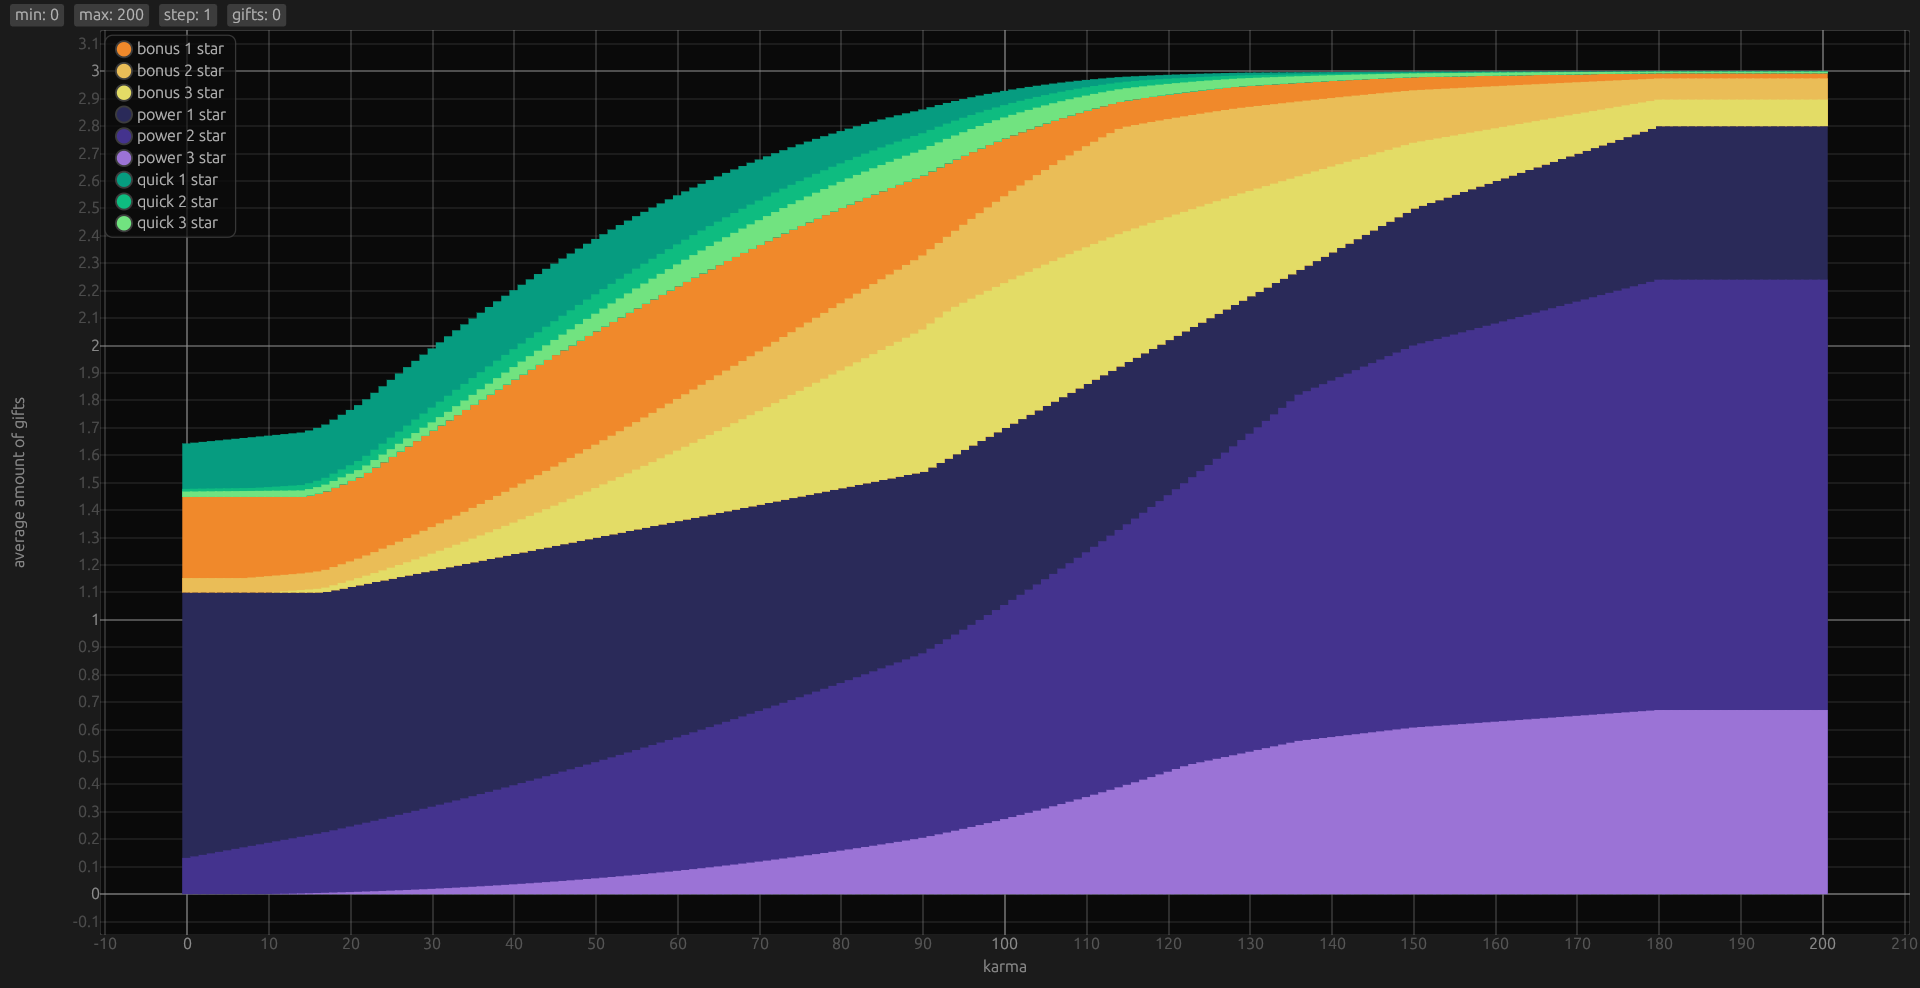
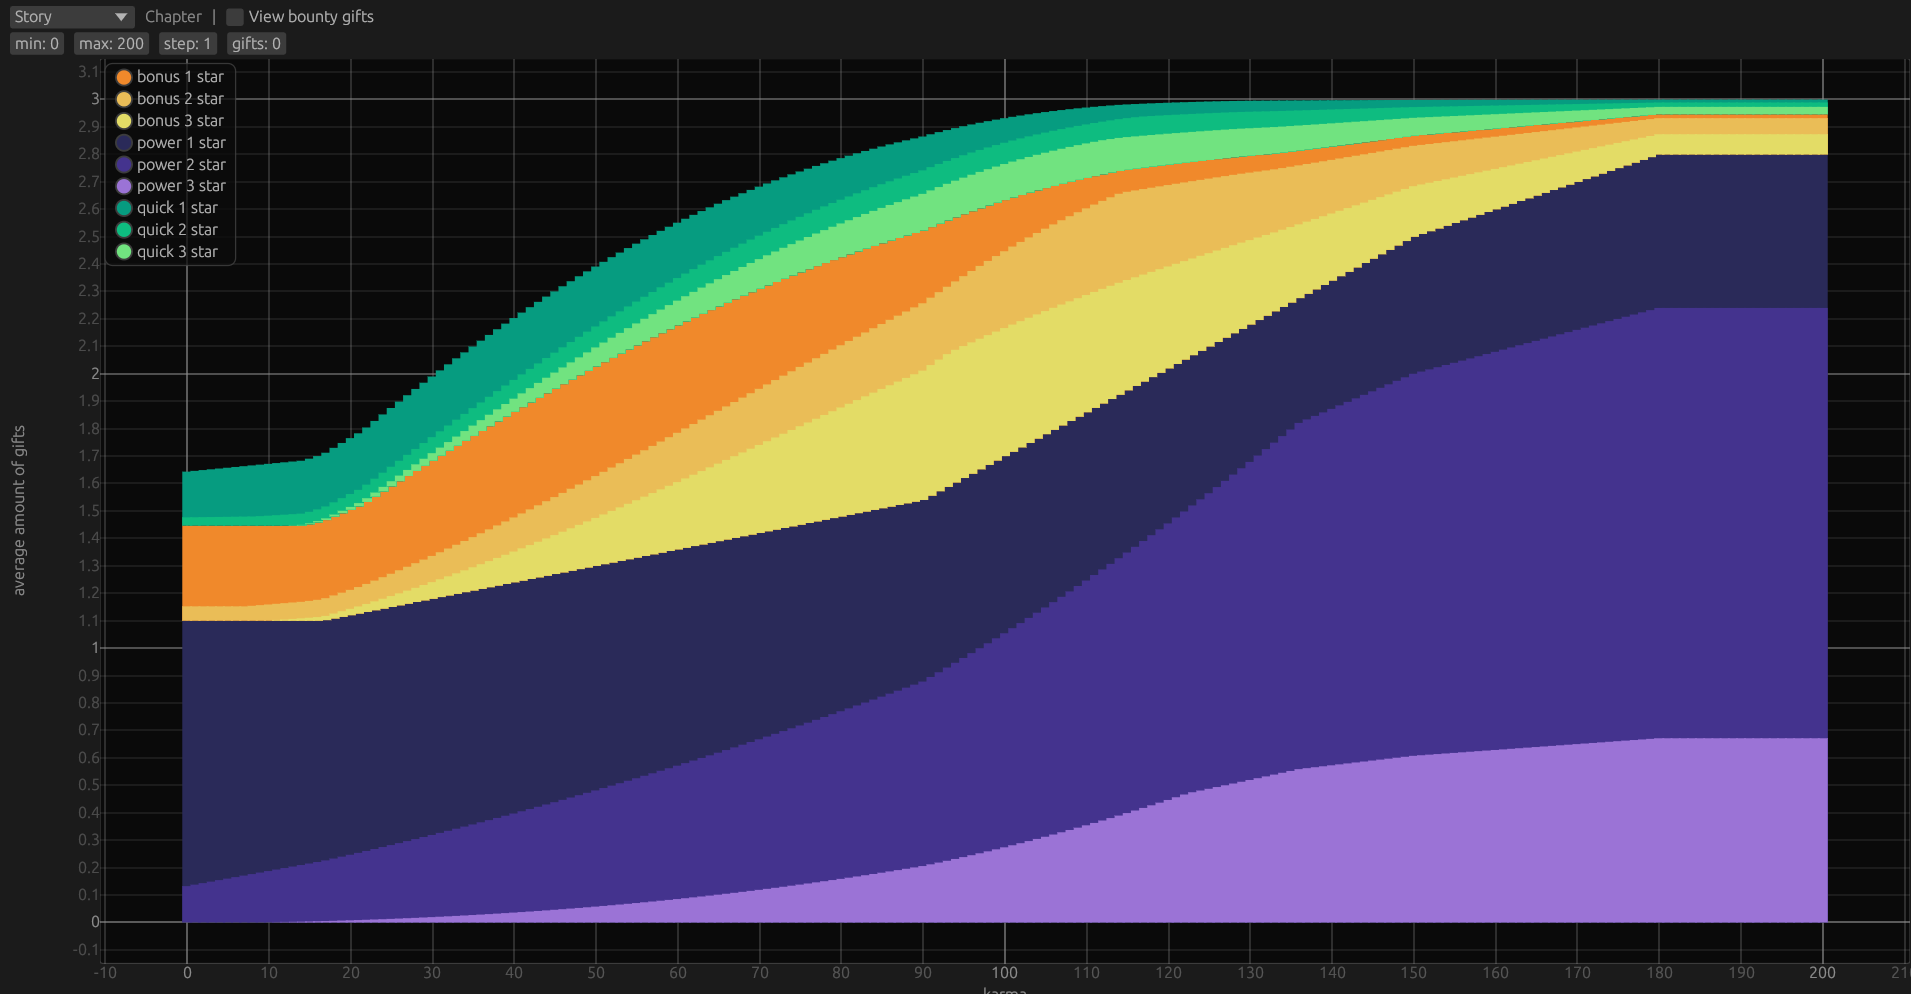
Quick fix for gift order and burden chance

diff --git a/src/main.rs b/src/main.rs
@@ -264,9 +264,12 @@ fn tower_initial_sequence(karma:f64) -> ([f64;3], [AverageRank;6]) {
     //assume two gifts are found
     let mut two_gifts = [[0.0;3];6];
     {
-        // burdens are 3 star unless none of the two blessings are 3 stars (then they will be 2 stars)
+        // burdens are 3 star it the second gift is a 3 star
         let mut burden_ranks = [1.0;3];
-        burden_ranks[2] = 1.0 - (1.0 - blessing_ranks[2])*(1.0 - blessing_ranks[2]);
+        burden_ranks[2] = blessing_ranks[2];
+
+        //There is a 75% chance the burden will be a 3 star if the first blessing is a 3 star but the second isnt
+        burden_ranks[2] += blessing_ranks[2] * (1.0 - blessing_ranks[2]) * 0.75;
 
         two_gifts[GType::Blessing as usize] = blessing_ranks.map(|r| r*2.0);
         two_gifts[GType::Burden as usize] = burden_ranks;
@@ -407,7 +410,7 @@ impl PlotProgram {
 
     fn story_sequence(&self, i:f64) -> [AverageRank;6] {
         let order1 = [GType::Power, GType::Power, GType::Power, GType::Bonus, GType::Bonus, GType::Quick, GType::Quick];
-        let order2 = [GType::Power, GType::Power, GType::Power, GType::Bonus, GType::Quick, GType::Bonus, GType::Quick];
+        let order2 = [GType::Power, GType::Power, GType::Power, GType::Quick, GType::Bonus, GType::Quick, GType::Bonus];
         return merge(
             try_gift_sequence(i, &order1, self.wonderful_count, self.chapter), 
             try_gift_sequence(i, &order2, self.wonderful_count, self.chapter),
